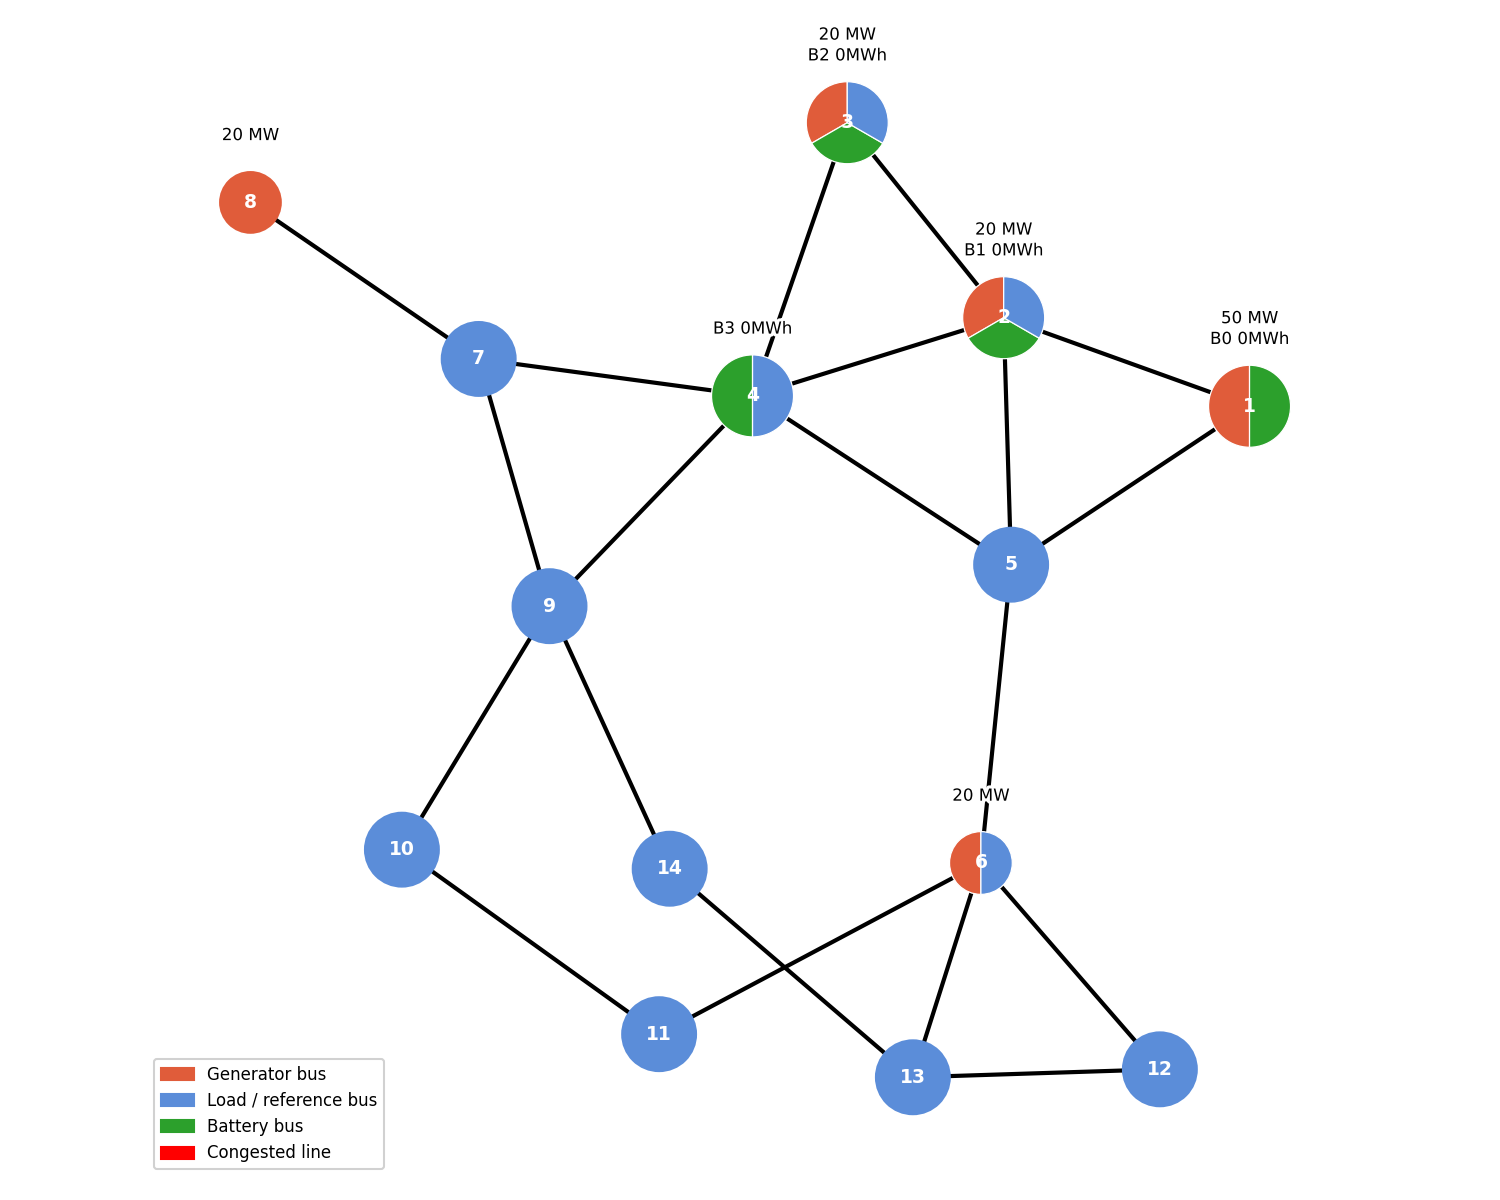
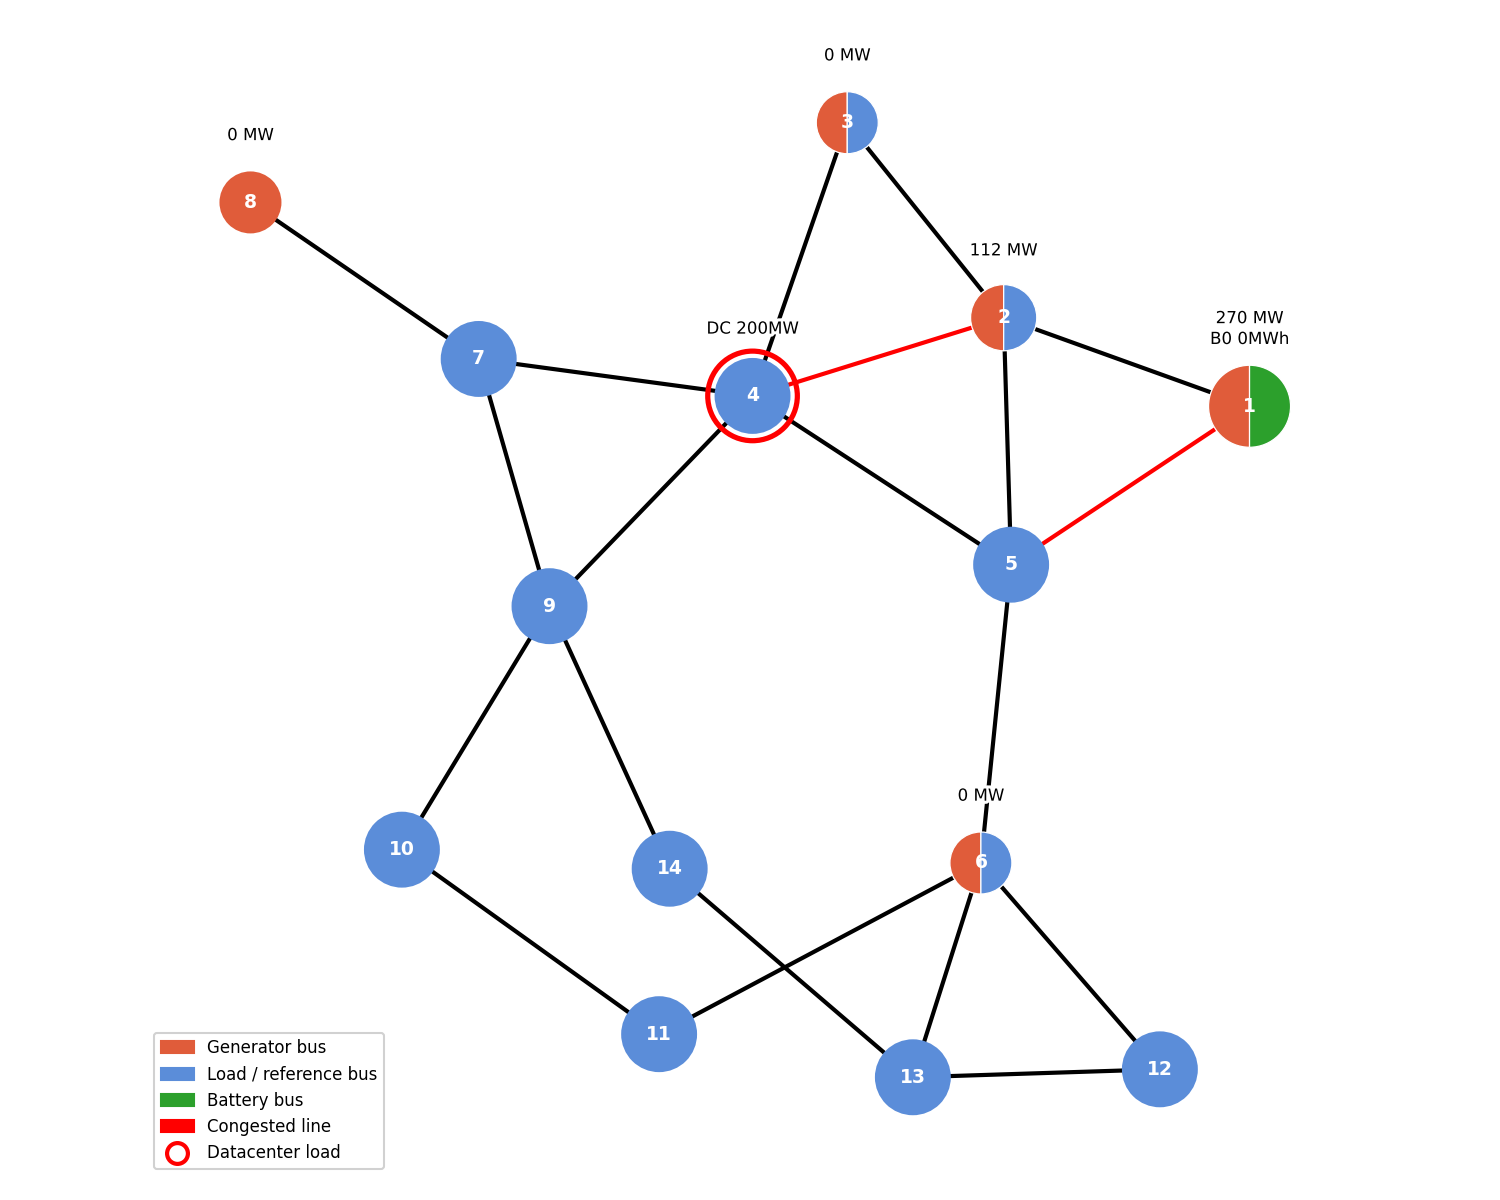
Match PLEXOS fixed-dispatch p_min/demand curve, filter placeholder batteries from plots, force light theme
Andrew's PLEXOS V5 workbook switched from statistical (p_min=0) to fixed
dispatch with enforced minimum-stable levels, so ieee14_plexos_basecase's
assets now use the same 50/20/20/20/20 MW floor, and the previously stale
back-solved PLEXOS_FACTORS demand curve is replaced with the correct
DAILY_FACTORS curve — verified this reproduces V5's $219,548.90 24h tie-out
cost and matching congested lines/hours.

Plots no longer draw a green battery bus for zero-power/zero-capacity
placeholder batteries (e.g. the "null" dummy in no-battery use cases).

Dashboard now forces light theme regardless of browser/OS dark-mode
reporting (previously only had light-mode theme values set, so browsers
honoring the real prefers-color-scheme: dark media query rendered blocks
near-black with invisible unselected tab text).

diff --git a/dashboard.py b/dashboard.py
@@ -459,7 +459,8 @@ def run_ed_tab(use_case: str, assets_file: str, T: float, force: bool = False):
                         loc_mod.GENERATOR_LOCATIONS, loc_mod.BATTERY_LOCATIONS, T)
         cli.save_plot(result, "ED", T, assets_file, grid=grid,
                       generators=assets_mod.GENERATORS,
-                      bat_locs=loc_mod.BATTERY_LOCATIONS, dc_bus=dc_bus, dc_mw=dc_mw)
+                      bat_locs=loc_mod.BATTERY_LOCATIONS, batteries=assets_mod.BATTERIES,
+                      dc_bus=dc_bus, dc_mw=dc_mw)
         cli.save_overview(result, "ED", T, assets_file,
                           assets_mod.GENERATORS, assets_mod.BATTERIES, grid)
         return result
@@ -491,7 +492,8 @@ def run_uc_tab(use_case: str, assets_file: str, T: float, force: bool = False):
                         loc_mod.BATTERY_LOCATIONS, T)
         cli.save_plot(result, "UC", T, assets_file, grid=grid,
                       generators=assets_mod.GENERATORS,
-                      bat_locs=loc_mod.BATTERY_LOCATIONS, dc_bus=dc_bus, dc_mw=dc_mw)
+                      bat_locs=loc_mod.BATTERY_LOCATIONS, batteries=assets_mod.BATTERIES,
+                      dc_bus=dc_bus, dc_mw=dc_mw)
         cli.save_overview(result, "UC", T, assets_file,
                           assets_mod.GENERATORS, assets_mod.BATTERIES, grid)
         return result
@@ -530,7 +532,8 @@ def run_siting_tab(use_case: str, assets_file: str, T: float, time_limit: float,
         plot_bat_locs = result.bat_locs if isinstance(result, SitingMIPResult) else loc_mod.BATTERY_LOCATIONS
         cli.save_plot(plot_result, "Siting", T, assets_file, grid=grid,
                       generators=assets_mod.GENERATORS,
-                      bat_locs=plot_bat_locs, dc_bus=dc_bus, dc_mw=dc_mw)
+                      bat_locs=plot_bat_locs, batteries=assets_mod.BATTERIES,
+                      dc_bus=dc_bus, dc_mw=dc_mw)
         cli.save_overview(plot_result, "Siting", T, assets_file,
                           assets_mod.GENERATORS, assets_mod.BATTERIES, grid)
         return result
@@ -699,7 +702,7 @@ def run_quantum_tab(use_case: str, assets_file: str, T: float, backend_label: st
         best_locs, _best_commit, _best_cost, best_res = result.best
         cli.save_plot(best_res, "Quantum", T, assets_file, grid=grid,
                       generators=assets_mod.GENERATORS, bat_locs=best_locs,
-                      dc_bus=dc_bus, dc_mw=dc_mw)
+                      batteries=assets_mod.BATTERIES, dc_bus=dc_bus, dc_mw=dc_mw)
         cli.save_overview(best_res, "Quantum", T, assets_file,
                           assets_mod.GENERATORS, assets_mod.BATTERIES, grid)
 
@@ -979,17 +982,40 @@ _THEME = gr.themes.Default(
     neutral_hue="slate",
     font=[gr.themes.GoogleFont("Inter"), "Segoe UI", "system-ui", "sans-serif"],
 ).set(
+    # Every light-mode value below has a matching _dark override so the
+    # dashboard looks identical regardless of the browser/OS reporting
+    # prefers-color-scheme: dark (Gradio otherwise falls back to its own
+    # built-in dark palette for any variable left unset, producing a mixed
+    # light/dark render — near-black blocks behind still-white plot PNGs,
+    # and unselected tab labels using a dark-on-dark default text color
+    # that's invisible until :hover changes it).
     body_background_fill="#f8fafc",
+    body_background_fill_dark="#f8fafc",
+    body_text_color="#0f172a",
+    body_text_color_dark="#0f172a",
+    body_text_color_subdued="#64748b",
+    body_text_color_subdued_dark="#64748b",
     block_background_fill="#ffffff",
+    block_background_fill_dark="#ffffff",
     block_border_color="#e2e8f0",
+    block_border_color_dark="#e2e8f0",
     block_shadow="0 1px 2px rgba(0,0,0,0.04)",
     block_label_text_color="#64748b",
+    block_label_text_color_dark="#64748b",
+    block_title_text_color="#0f172a",
+    block_title_text_color_dark="#0f172a",
     button_primary_background_fill="#0d9488",
+    button_primary_background_fill_dark="#0d9488",
     button_primary_background_fill_hover="#0f766e",
+    button_primary_background_fill_hover_dark="#0f766e",
     button_primary_text_color="#ffffff",
+    button_primary_text_color_dark="#ffffff",
+    button_secondary_text_color="#0f172a",
+    button_secondary_text_color_dark="#0f172a",
 )
 
 _CSS = """
+:root { color-scheme: light; }
 .gradio-container { background: #f8fafc; }
 h1 { color: #0f172a; }
 button.selected { color: #0d9488 !important; }
@@ -1010,6 +1036,27 @@ label span, .block-label { text-transform: uppercase; letter-spacing: 0.3px;
 .gradio-container h1 { margin: 4px 0 8px; font-size: 22px; }
 """
 
+# Gradio's frontend only skips its own light/dark auto-detection
+# (window.matchMedia("(prefers-color-scheme: dark)")) when the page URL
+# already carries a "__theme" query param. Without it, dark mode depends on
+# what the browser reports for that media query — which varies (e.g. some
+# browsers' anti-fingerprinting protections normalize it, others pass the
+# real OS preference through), so the same _THEME/_CSS can render
+# differently across browsers. Forcing "__theme=light" in the URL via a
+# <head> redirect (runs before Gradio's own bundle mounts) makes the
+# dashboard render identically everywhere, matching our light-only design.
+_FORCE_LIGHT_THEME_HEAD = """
+<script>
+(function () {
+  var url = new URL(window.location.href);
+  if (url.searchParams.get("__theme") !== "light") {
+    url.searchParams.set("__theme", "light");
+    window.location.replace(url.toString());
+  }
+})();
+</script>
+"""
+
 if __name__ == "__main__":
     build_app().launch(server_name="127.0.0.1", server_port=7860, show_error=True,
-                       theme=_THEME, css=_CSS)
+                       theme=_THEME, css=_CSS, head=_FORCE_LIGHT_THEME_HEAD)

diff --git a/use_cases/ieee14_plexos_basecase/ieee14_plexos_basecase.py b/use_cases/ieee14_plexos_basecase/ieee14_plexos_basecase.py
@@ -3,31 +3,35 @@
 # Same network as use_cases/ieee14 (MATPOWER case14: buses, branches, PTDFs,
 # generator buses/costs all identical — verified against the PLEXOS PTDF
 # sheet to 4 decimal places). The only thing that changes here is the daily
-# demand shape, back-solved from the "Load by Node (Output)" tab of the
-# colleague's "No Batteries, No Line Losses, Base Case.xlsx" PLEXOS export
-# (each hour's node loads divide out to a clean 2-decimal fraction of the
-# MATPOWER base Pd, e.g. bus 3: 60.29 / 94.2 = 0.6400 at hour 0).
+# demand shape.
 #
-# Pair with assets.py in this folder (p_min=0 on all generators, 200 MW flat
-# datacenter at bus 4) to reproduce his numbers — see
-# docs/plexos_comparison/Comparison_Summary.md for the full writeup.
+# PLEXOS_FACTORS previously held a curve back-solved from the "Load by Node
+# (Output)" tab of an early, pre-V2 "No Batteries, No Line Losses, Base
+# Case.xlsx" PLEXOS export (flatter, 0.56x-0.99x, peaking at hour 10/20).
+# That export used a different, since-superseded demand shape — the PLEXOS side's
+# PLEXOS output has matched use_cases/ieee14/ieee14.py's DAILY_FACTORS curve
+# since the V2 workbook (confirmed 2026-07-14, reconfirmed against V5's
+# "Hourly Load Multipliers" tab 2026-07-18, which is DAILY_FACTORS
+# algebraically renormalized to a 1.0 peak). PLEXOS_FACTORS now mirrors
+# DAILY_FACTORS directly so this file stays in sync with any future changes
+# to that curve, rather than drifting again.
+#
+# Pair with assets.py in this folder (p_min matching PLEXOS's fixed/
+# min-stable-level dispatch, 200 MW flat datacenter at bus 4) to reproduce
+# his numbers.
 
 from dcopf.cases.base import BaseCase, BaseCaseDescription
 import numpy as np
 
-# Hourly factors back-solved from the PLEXOS "Load by Node (Output)" sheet
-# (base Pd x factor = his reported node load, all 14 nodes, all 24 hours).
-# Contrast with use_cases/ieee14/ieee14.py's DAILY_FACTORS — that curve has
-# a much deeper night valley (0.45x) and a higher midday peak (1.40x); this
-# one is flatter throughout (0.56x-0.99x), peaking earlier (hour 10 vs 13).
+# Mirrors use_cases/ieee14/ieee14.py's DAILY_FACTORS (single-day slice).
 PLEXOS_FACTORS = [
-    0.64, 0.60, 0.58, 0.56, 0.56, 0.62,  # hours 0-5:  night
-    0.74, 0.86, 0.95, 0.98, 0.99, 0.98,  # hours 6-11: morning ramp
-    0.95, 0.95, 0.93, 0.92, 0.90, 0.92,  # hours 12-17: midday/afternoon
-    0.96, 0.98, 0.99, 0.90, 0.78, 0.70,  # hours 18-23: evening ramp-down
+    0.45, 0.45, 0.45, 0.50, 0.55, 0.65,  # hours 0-5:  night
+    0.80, 0.90, 1.00, 1.10, 1.20, 1.30,  # hours 6-11: morning ramp
+    1.35, 1.40, 1.35, 1.30, 1.20, 1.10,  # hours 12-17: midday/afternoon
+    1.00, 0.90, 0.80, 0.70, 0.60, 0.50,  # hours 18-23: evening ramp-down
 ]
 
-T = 24  # single-day PLEXOS export — not extended to a week
+T = 24  # single-day slice; use ieee14/ieee14.py directly for the 168h week
 
 
 class Case(BaseCase):

diff --git a/use_cases/ieee14_plexos_basecase/assets.py b/use_cases/ieee14_plexos_basecase/assets.py
@@ -1,48 +1,49 @@
 # PLEXOS base-case replication assets.
 #
-# p_min = 0 on every generator (not the usual 20 MW floor used elsewhere in
-# ieee14/assets.py). Originally reverse-engineered from PLEXOS's "Generation
-# by Hour" output — Gen 3 and Gen 4 sitting at exactly 0 MW whenever unused,
-# and Gen 5 running fractional values like 1.88 / 3.8 / 7.62 MW, all below a
-# 20 MW floor — and confirmed directly by the PLEXOS side: his PLEXOS baseline runs
-# with no minimum-stable-level constraint, and he's noted that dropping
-# p_min lets the model show more congestion.
+# p_min matches the 50/20/20/20/20 MW floor used elsewhere in ieee14/assets.py.
+# the PLEXOS side's PLEXOS baseline originally ran with no minimum-stable-level
+# constraint (statistical approach, p_min=0, more congestion) but switched to
+# a fixed dispatch approach as of the V5 workbook (2026-07-18 email): PLEXOS's
+# "Generator Information" tab now specifies these min-stable levels directly,
+# and generators are held above them. The quantum battery-valuation algorithm
+# requires the min-stable-level constraint, so this is the agreed target
+# going forward — the PLEXOS side confirmed in the same email.
 #
 # No batteries ("No Batteries" case) — represented as a single zero-power,
 # zero-capacity dummy so the solver's battery arrays aren't empty.
 #
-# Run with Economic Dispatch (option 1 in main.py): with p_min=0 the UC
-# commitment binaries never bind, so ED and UC solve to the same answer;
-# ED is faster.
+# Run with Unit Commitment (not Economic Dispatch): with p_min>0 the UC
+# commitment binaries can bind, so ED and UC no longer solve to the same
+# answer.
 
 GENERATORS = [
     {
         "name": "Gen 1", "bus": 1,
-        "p_min": 0.0, "p_max": 332.0,
+        "p_min": 50.0, "p_max": 332.0,
         "cost_a": 0.0, "cost_b": 20.0, "cost_c": 0.0,
         "startup_cost": 0.0,
     },
     {
         "name": "Gen 2", "bus": 2,
-        "p_min": 0.0, "p_max": 140.0,
+        "p_min": 20.0, "p_max": 140.0,
         "cost_a": 0.0, "cost_b": 20.0, "cost_c": 0.0,
         "startup_cost": 0.0,
     },
     {
         "name": "Gen 3", "bus": 3,
-        "p_min": 0.0, "p_max": 100.0,
+        "p_min": 20.0, "p_max": 100.0,
         "cost_a": 0.0, "cost_b": 40.0, "cost_c": 0.0,
         "startup_cost": 0.0,
     },
     {
         "name": "Gen 4", "bus": 6,
-        "p_min": 0.0, "p_max": 100.0,
+        "p_min": 20.0, "p_max": 100.0,
         "cost_a": 0.0, "cost_b": 40.0, "cost_c": 0.0,
         "startup_cost": 0.0,
     },
     {
         "name": "Gen 5", "bus": 8,
-        "p_min": 0.0, "p_max": 100.0,
+        "p_min": 20.0, "p_max": 100.0,
         "cost_a": 0.0, "cost_b": 40.0, "cost_c": 0.0,
         "startup_cost": 0.0,
     },

diff --git a/main.py b/main.py
@@ -450,14 +450,14 @@ def print_results(
 
 
 def save_plot(result, opt_name: str, T: int, assets_file: str, grid=None,
-              generators=None, bat_locs=None, dc_bus=None, dc_mw=0.0) -> None:
+              generators=None, bat_locs=None, batteries=None, dc_bus=None, dc_mw=0.0) -> None:
     try:
         from plots import save_plot as _save_plot
     except ImportError:
         return
     try:
         _save_plot(result, opt_name, T, assets_file, grid=grid,
-                   generators=generators, bat_locs=bat_locs,
+                   generators=generators, bat_locs=bat_locs, batteries=batteries,
                    dc_bus=dc_bus, dc_mw=dc_mw)
     except Exception as e:
         print(f"Plot save failed: {e}")
@@ -572,7 +572,7 @@ def main():
 
     if not isinstance(plot_result, (SitingResult, QuantumSitingResult)):
         save_plot(plot_result, opt_name, T, assets_file_name, grid=grid,
-                  generators=generators, bat_locs=plot_bat_locs,
+                  generators=generators, bat_locs=plot_bat_locs, batteries=batteries,
                   dc_bus=dc_bus, dc_mw=dc_mw)
         save_overview(plot_result, opt_name, T, assets_file_name, generators, batteries, grid)
     elif isinstance(plot_result, SitingResult):

diff --git a/plots.py b/plots.py
@@ -813,7 +813,7 @@ def save_runtime_breakdown(runtime_phases: dict, opt_name: str, T: int,
 
 
 def save_plot(result, opt_name: str, T: int, assets_file: str, grid=None,
-              generators=None, bat_locs=None, dc_bus=None, dc_mw=0.0):
+              generators=None, bat_locs=None, batteries=None, dc_bus=None, dc_mw=0.0):
     out_dir = os.path.join(os.path.dirname(os.path.abspath(__file__)), "outputs")
     os.makedirs(out_dir, exist_ok=True)
 
@@ -827,6 +827,16 @@ def save_plot(result, opt_name: str, T: int, assets_file: str, grid=None,
         bat_locations = dict(bat_locs)
     else:
         bat_locations = {0: 2, 1: 4}  # pjm5 fallback
+
+    # Zero-power/zero-capacity batteries are placeholders (e.g. the "null"
+    # dummy in no-battery use cases, kept only so solver arrays aren't empty)
+    # — drop them here so they don't draw as a real battery bus on the plot.
+    if batteries is not None:
+        bat_locations = {
+            b: bus for b, bus in bat_locations.items()
+            if b < len(batteries)
+            and (batteries[b]["power_mw"] > 0 or batteries[b]["capacity_mwh"] > 0)
+        }
 
     _topo = _build_grid_graph(grid) if grid is not None else None
 

diff --git a/use_cases/ieee14/assets.py b/use_cases/ieee14/assets.py
@@ -3,8 +3,10 @@
 # For datacenter scenarios, run site_datacenter.py then select the generated
 # assets_dc_bus{N}.py file from this directory.
 #
-# p_min stays nonzero here (unlike ieee14_plexos_basecase/assets.py, which
-# uses p_min=0 to match the PLEXOS side's PLEXOS baseline). solvers/quantum_siting.py's
+# p_min stays nonzero here, matching ieee14_plexos_basecase/assets.py, which
+# also now uses these floors to match the PLEXOS side's PLEXOS baseline (switched from
+# p_min=0/statistical to fixed/min-stable as of the V5 workbook, 2026-07-18).
+# solvers/quantum_siting.py's
 # proxy cost function approximates each generator's commitment cost as
 # cost_a*p_min^2 + cost_b*p_min + cost_c; with cost_a=cost_c=0 here, that
 # collapses to cost_b*p_min, which goes to zero at p_min=0 regardless of
